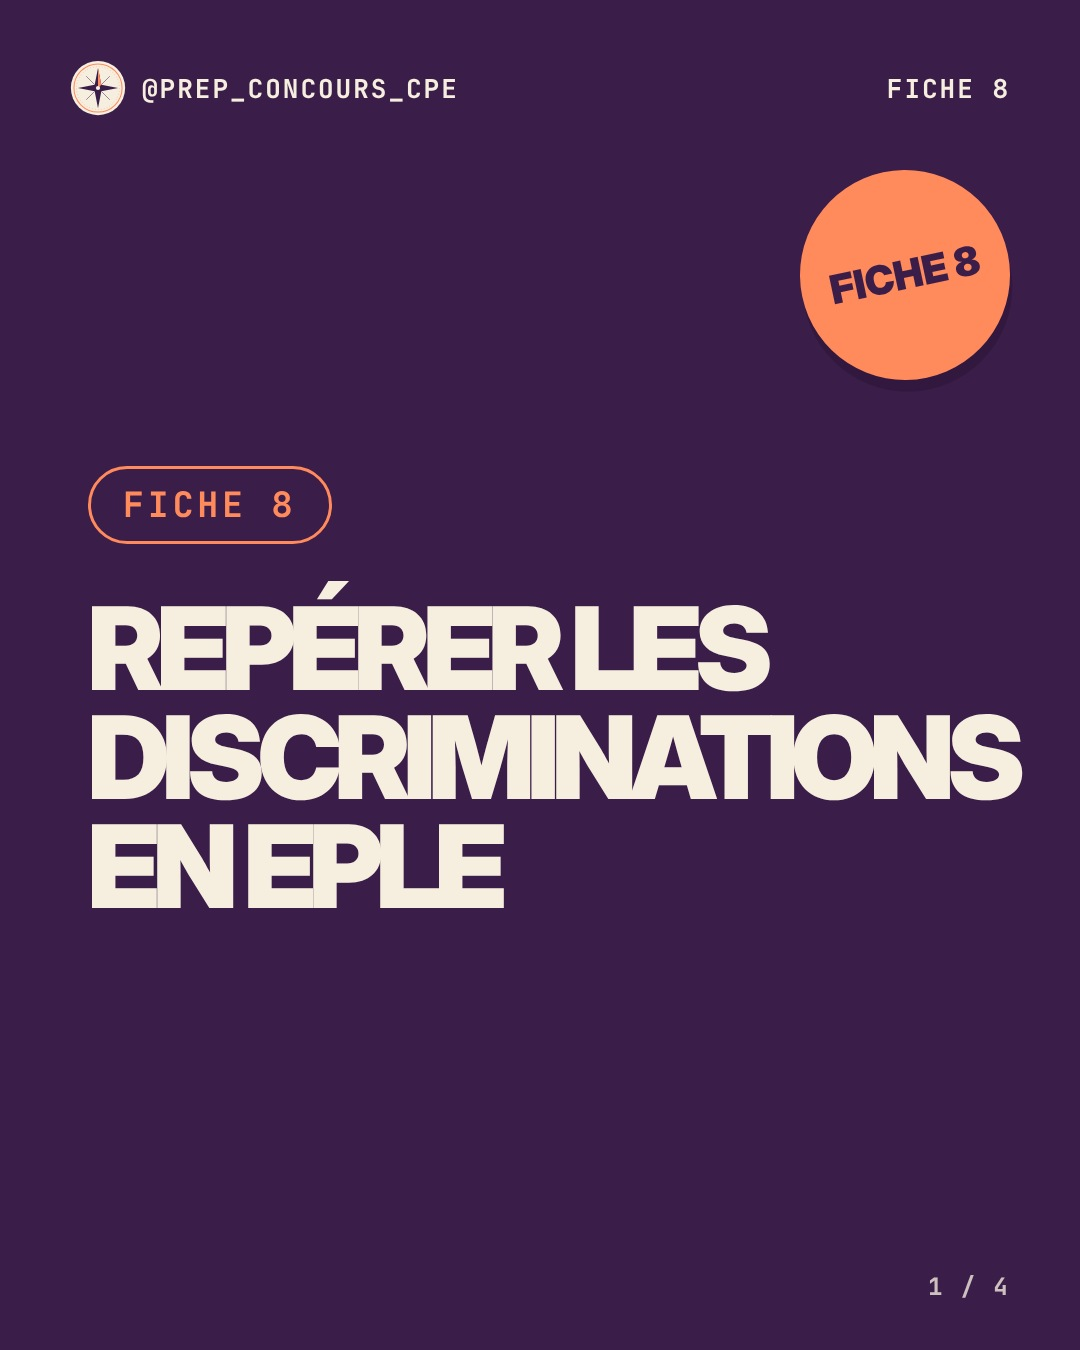
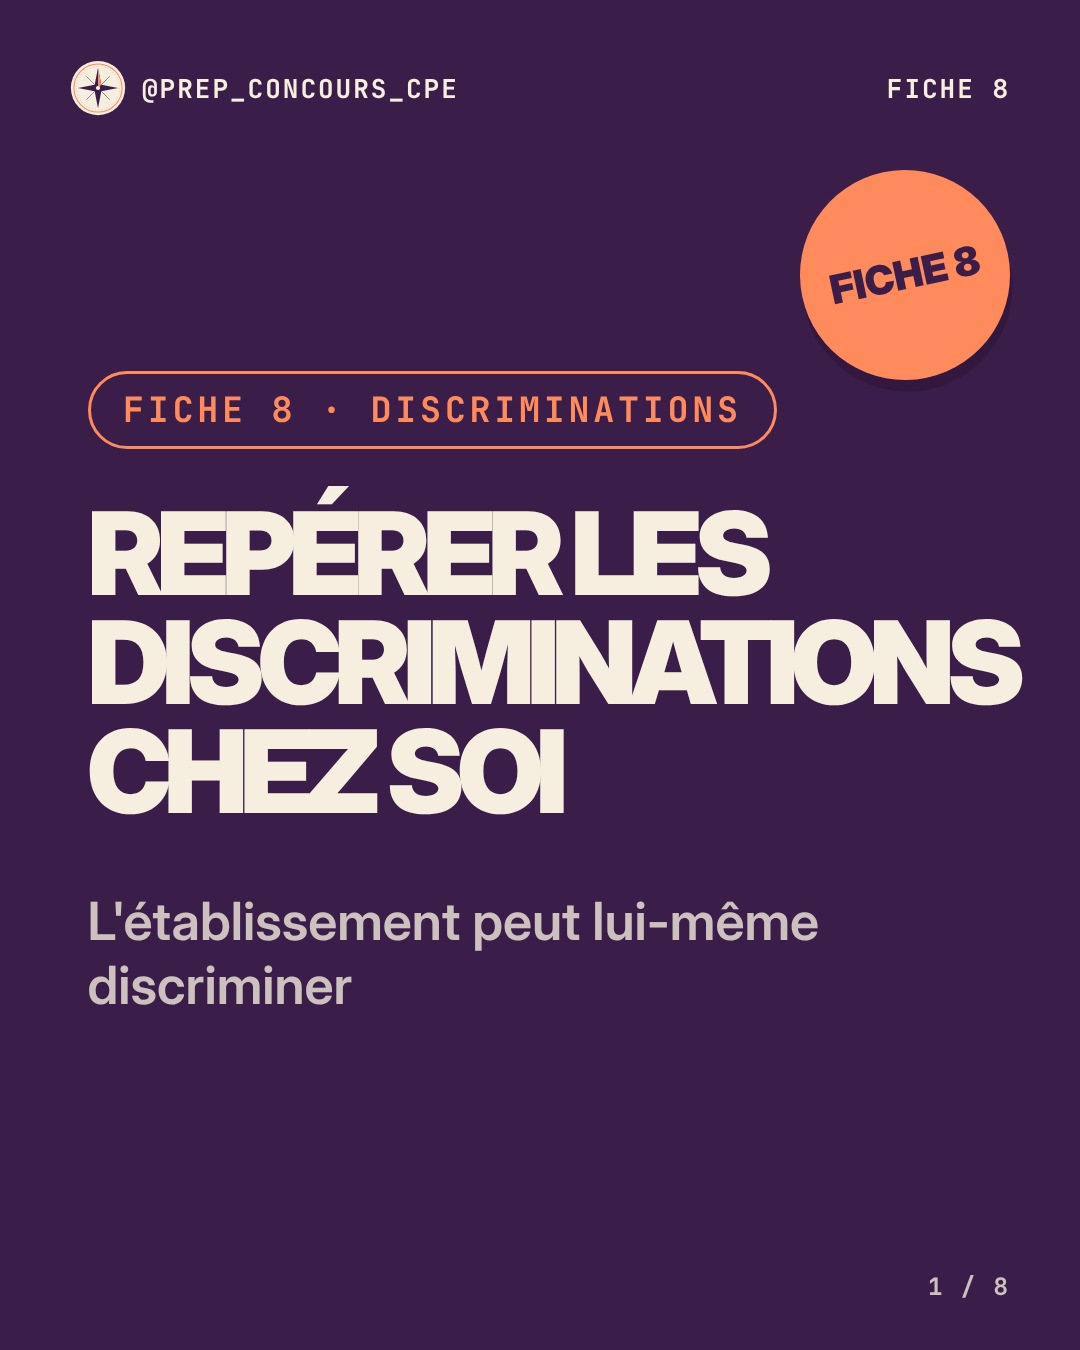
Carrousel du 15 nov : 6 domaines de vigilance discriminations (8 images, brouillon)

Changed region(s): [[0.0611, 0.2489, 0.9472, 0.7467], [0.9167, 0.9333, 0.9472, 0.9644]]

diff --git a/posts/auto/2026-11-15/LEGENDE.md b/posts/auto/2026-11-15/LEGENDE.md
@@ -1,3 +1,3 @@
-Où repérer les discriminations dans l'établissement ? Six points de vigilance pour le CPE : punitions et sanctions, orientation, stages, espaces, responsabilités, langage. À analyser par sexe et par classe, avec le CESCE et les élus. La fiche 8 de Prep'CPE détaille chaque domaine. Dans quel domaine est-ce le plus difficile d'agir selon toi ? Réponds en commentaire. Lien en bio.
+Où repérer les discriminations dans l'établissement ? Six domaines de vigilance pour le CPE : punitions et sanctions, orientation, stages, espaces, responsabilités, langage. L'établissement lui-même peut discriminer : on analyse donc les sanctions par sexe et par classe, avec le CESCE et les élus. Face à un propos raciste ou homophobe : protéger la victime, entendre l'auteur, signaler, répondre sur le plan éducatif, agir sur le collectif. Le rôle du CPE : égalité de traitement (CC4), valeurs de la République (CC1), protection et signalement (CC6), règlement intérieur (C2). Candidats et candidates, enregistre ce post pour tes révisions. Tout est dans la fiche 8 de Prep'CPE, avec le quiz. Dans quel domaine est-ce le plus difficile d'agir selon toi ? Réponds en commentaire. Lien en bio.
 
 #concourscpe #cpe2027 #prepaconcours #conseillerprincipaldeducation #viescolaire #discriminations #egalite #climatscolaire
